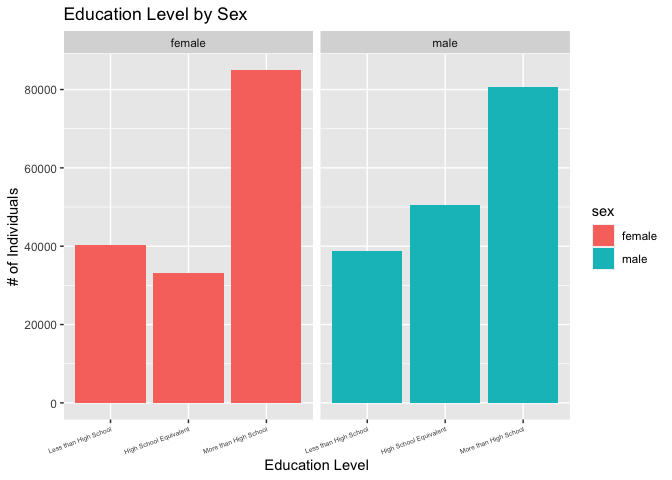
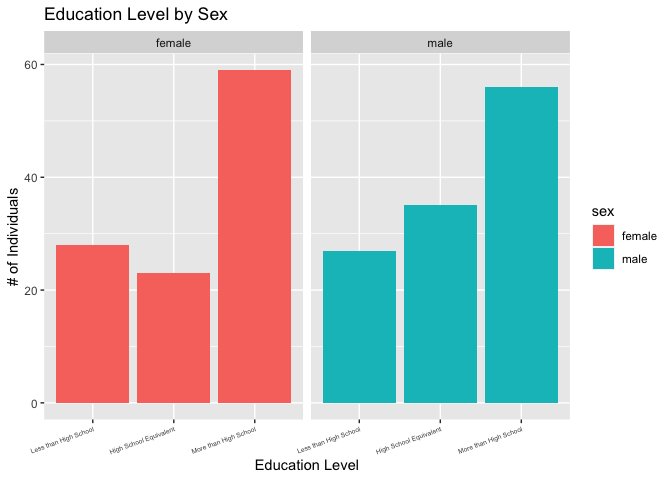
Added to question 3

diff --git a/p8105_hw3_dfk2117.md b/p8105_hw3_dfk2117.md
@@ -318,8 +318,7 @@ df_covar =
 ``` r
 df_accel = 
   read_csv("data/nhanes_accel.csv") |> 
-  janitor::clean_names() |> 
-  pivot_longer(min1:min1440, names_to = "time_interval")
+  janitor::clean_names()
 ```
 
     ## Rows: 250 Columns: 1441
@@ -332,7 +331,7 @@ df_accel =
 
 ``` r
 df_merged =
-  inner_join(df_accel, df_covar)
+  inner_join(df_accel, df_covar) 
 ```
 
     ## Joining with `by = join_by(seqn)`
@@ -352,12 +351,12 @@ df_merged =
 
 | sex    | education     | count |
 |:-------|:--------------|------:|
-| female | less_than_hs  | 40320 |
-| female | equivalent_hs | 33120 |
-| female | more_than_hs  | 84960 |
-| male   | less_than_hs  | 38880 |
-| male   | equivalent_hs | 50400 |
-| male   | more_than_hs  | 80640 |
+| female | less_than_hs  |    28 |
+| female | equivalent_hs |    23 |
+| female | more_than_hs  |    59 |
+| male   | less_than_hs  |    27 |
+| male   | equivalent_hs |    35 |
+| male   | more_than_hs  |    56 |
 
 ``` r
 df_merged |> 
@@ -375,5 +374,24 @@ df_merged |>
 ![](p8105_hw3_dfk2117_files/figure-gfm/unnamed-chunk-13-1.png)<!-- -->
 
 ### Traditional analyses of accelerometer data focus on the total activity over the day. Using your tidied dataset, aggregate across minutes to create a total activity variable for each participant. Plot these total activities (y-axis) against age (x-axis); your plot should compare men to women and have separate panels for each education level. Include a trend line or a smooth to illustrate differences. Comment on your plot.
+
+``` r
+## I found the basis for the code used in the mutate() function on stack overflow since I could not find a way to do this from my notes
+df_merged |> 
+  group_by(seqn) |> 
+  mutate(total_activity = 
+           sum(
+             across(
+               starts_with("min")))) |>
+  ggplot(aes(x = age, y = total_activity, color = sex)) + 
+  geom_point(aes(shape=sex), alpha=0.6) + 
+  geom_smooth(se=FALSE, method="lm") +
+  facet_wrap(~education, scales="free") +
+  labs(title="Total Activity vs Age by Education Level", x="Age (years)", y="Total Activity") 
+```
+
+    ## `geom_smooth()` using formula = 'y ~ x'
+
+![](p8105_hw3_dfk2117_files/figure-gfm/unnamed-chunk-14-1.png)<!-- -->
 
 ### Accelerometer data allows the inspection activity over the course of the day. Make a three-panel plot that shows the 24-hour activity time courses for each education level and use color to indicate sex. Describe in words any patterns or conclusions you can make based on this graph; including smooth trends may help identify differences.
